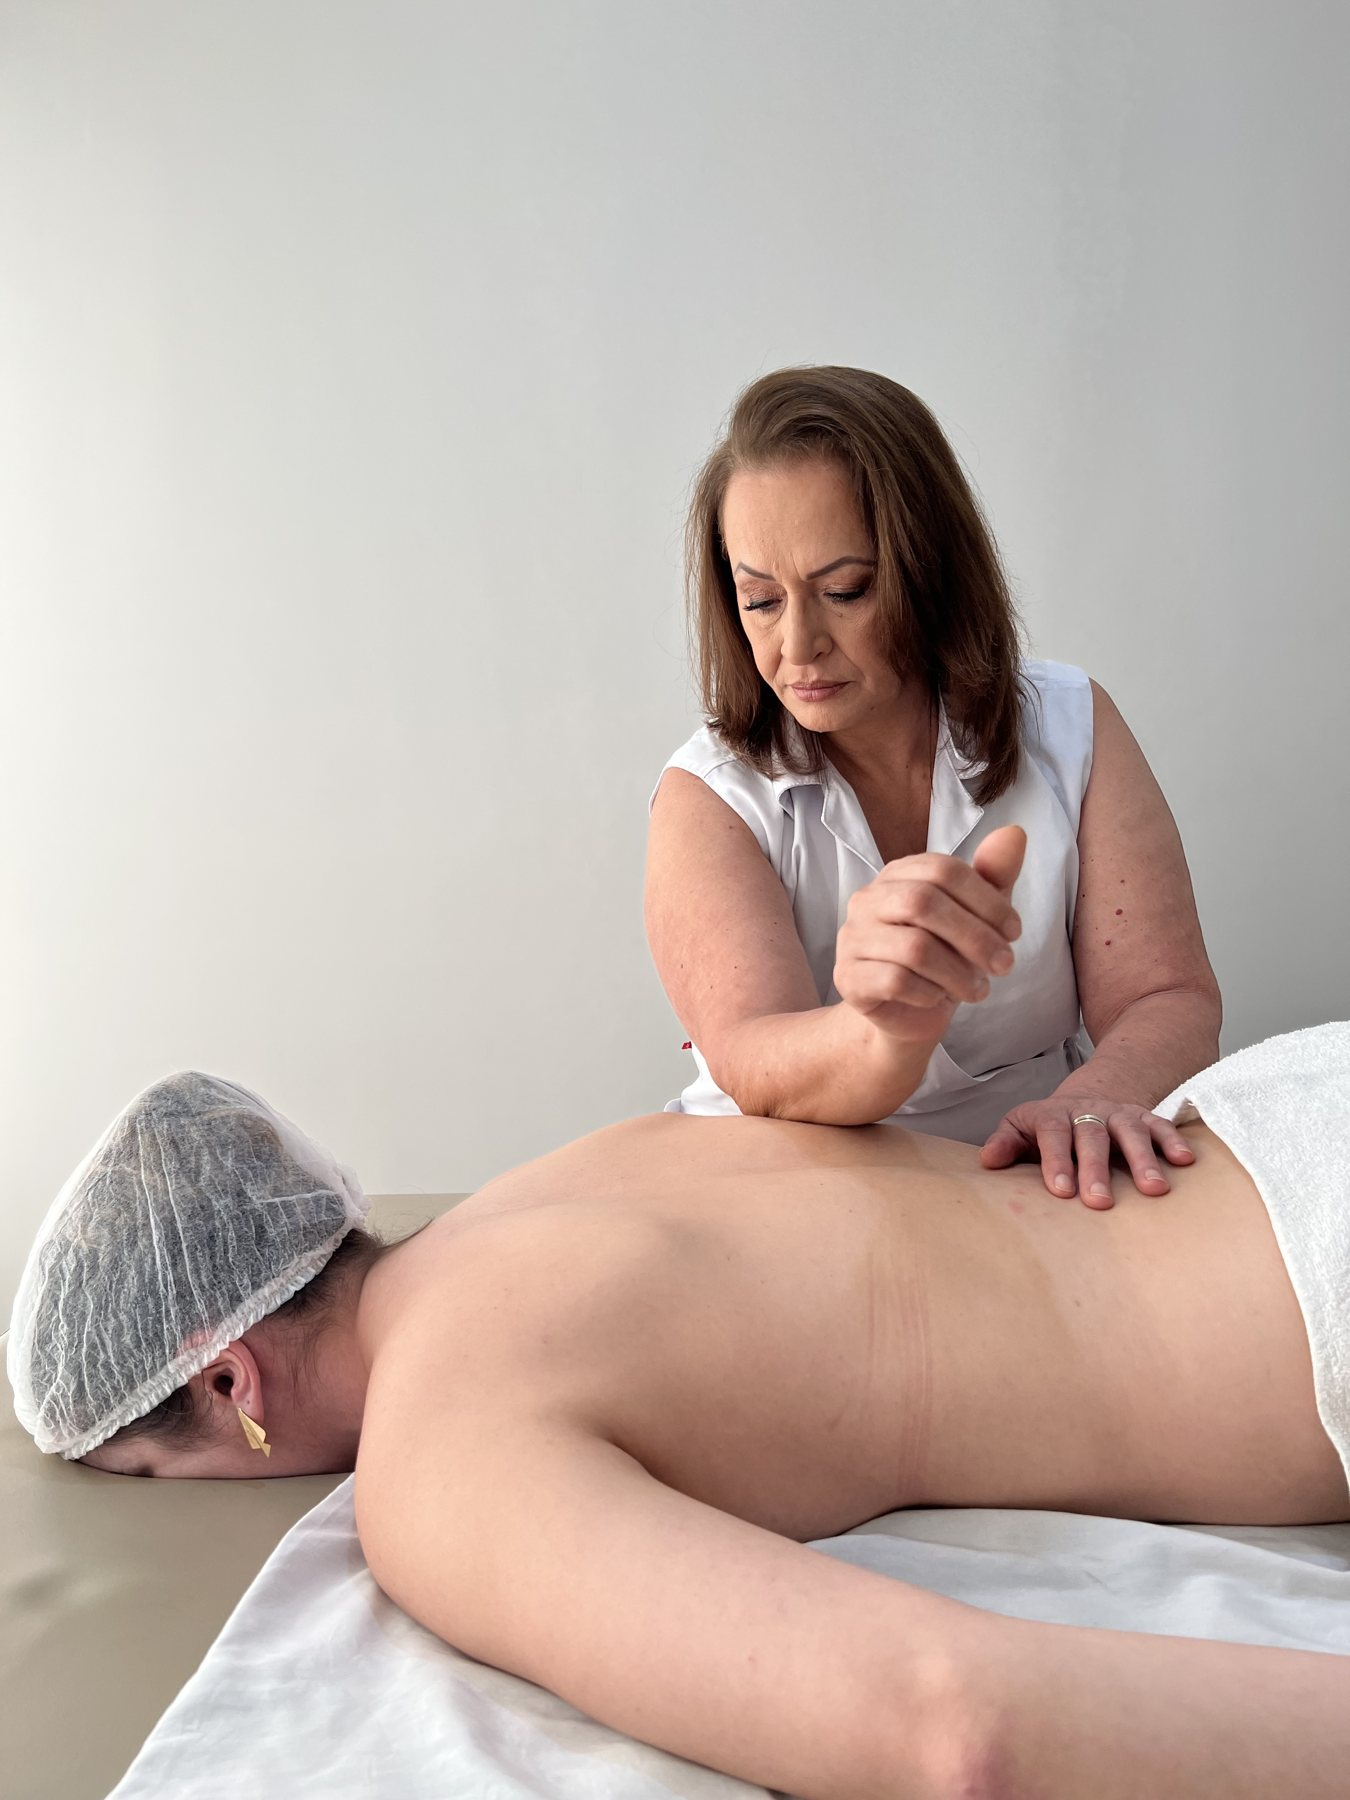
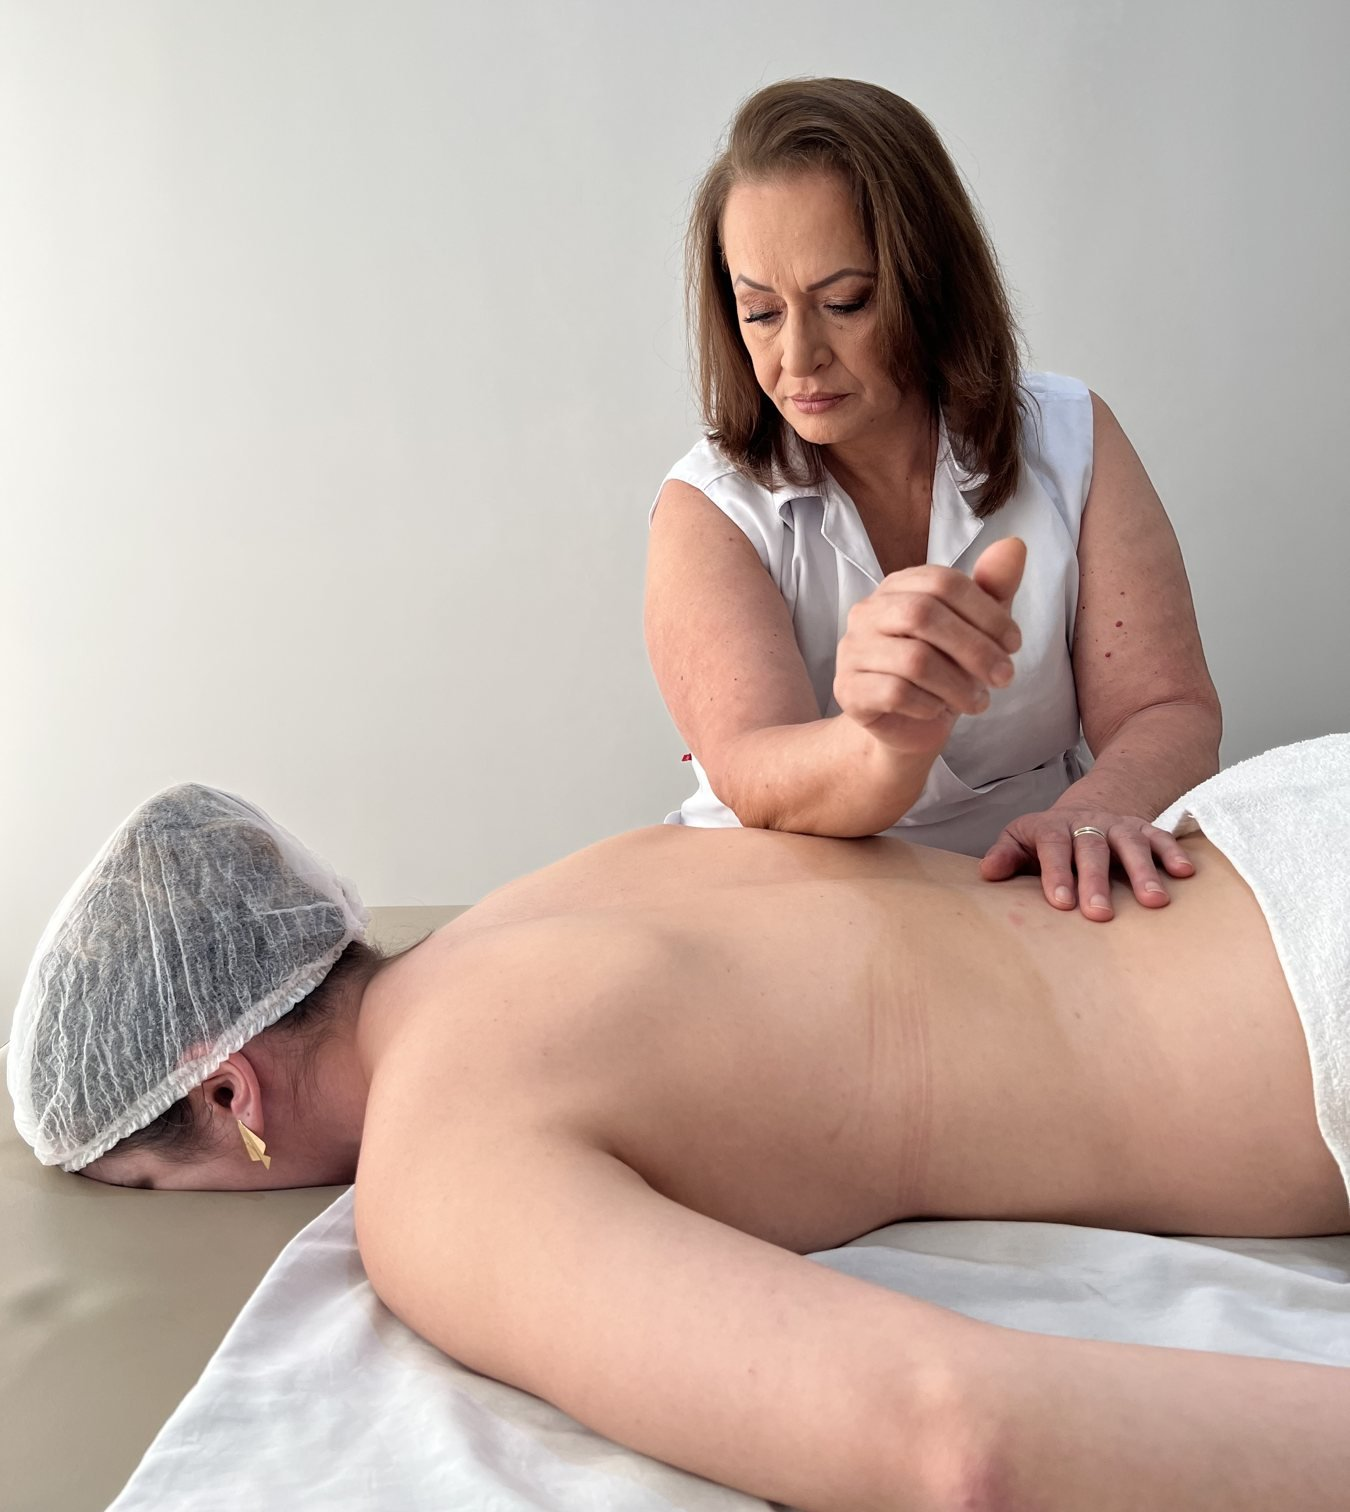
Tighten hero photo crop and framing
Trim the blank wall space above Terezinha's head in the hero photo
and adjust the crop position so the massage action fills the frame
instead of leaving a large empty gap under the header.

diff --git a/assets/css/style.css b/assets/css/style.css
@@ -215,7 +215,7 @@ address { font-style: normal; }
   width: 100%;
   height: 100%;
   object-fit: cover;
-  object-position: center 22%;
+  object-position: center 15%;
 }
 
 /* Hero content plays a guaranteed CSS entrance animation instead of
